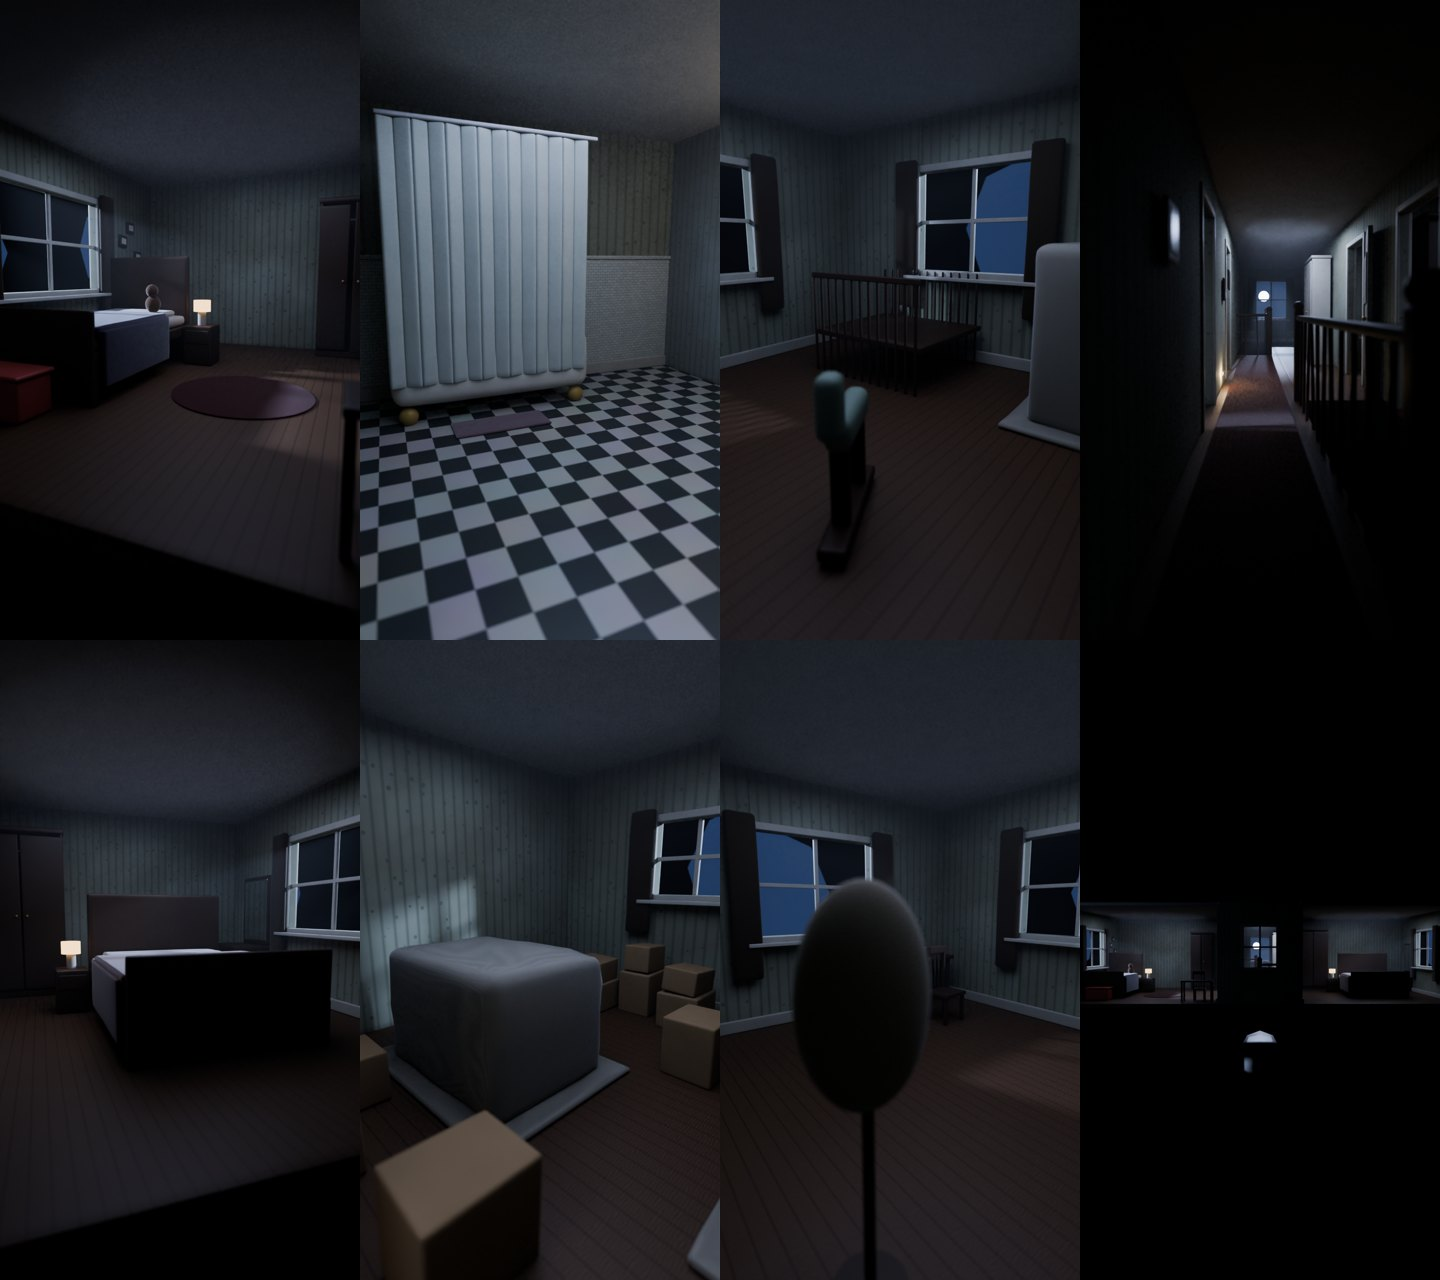
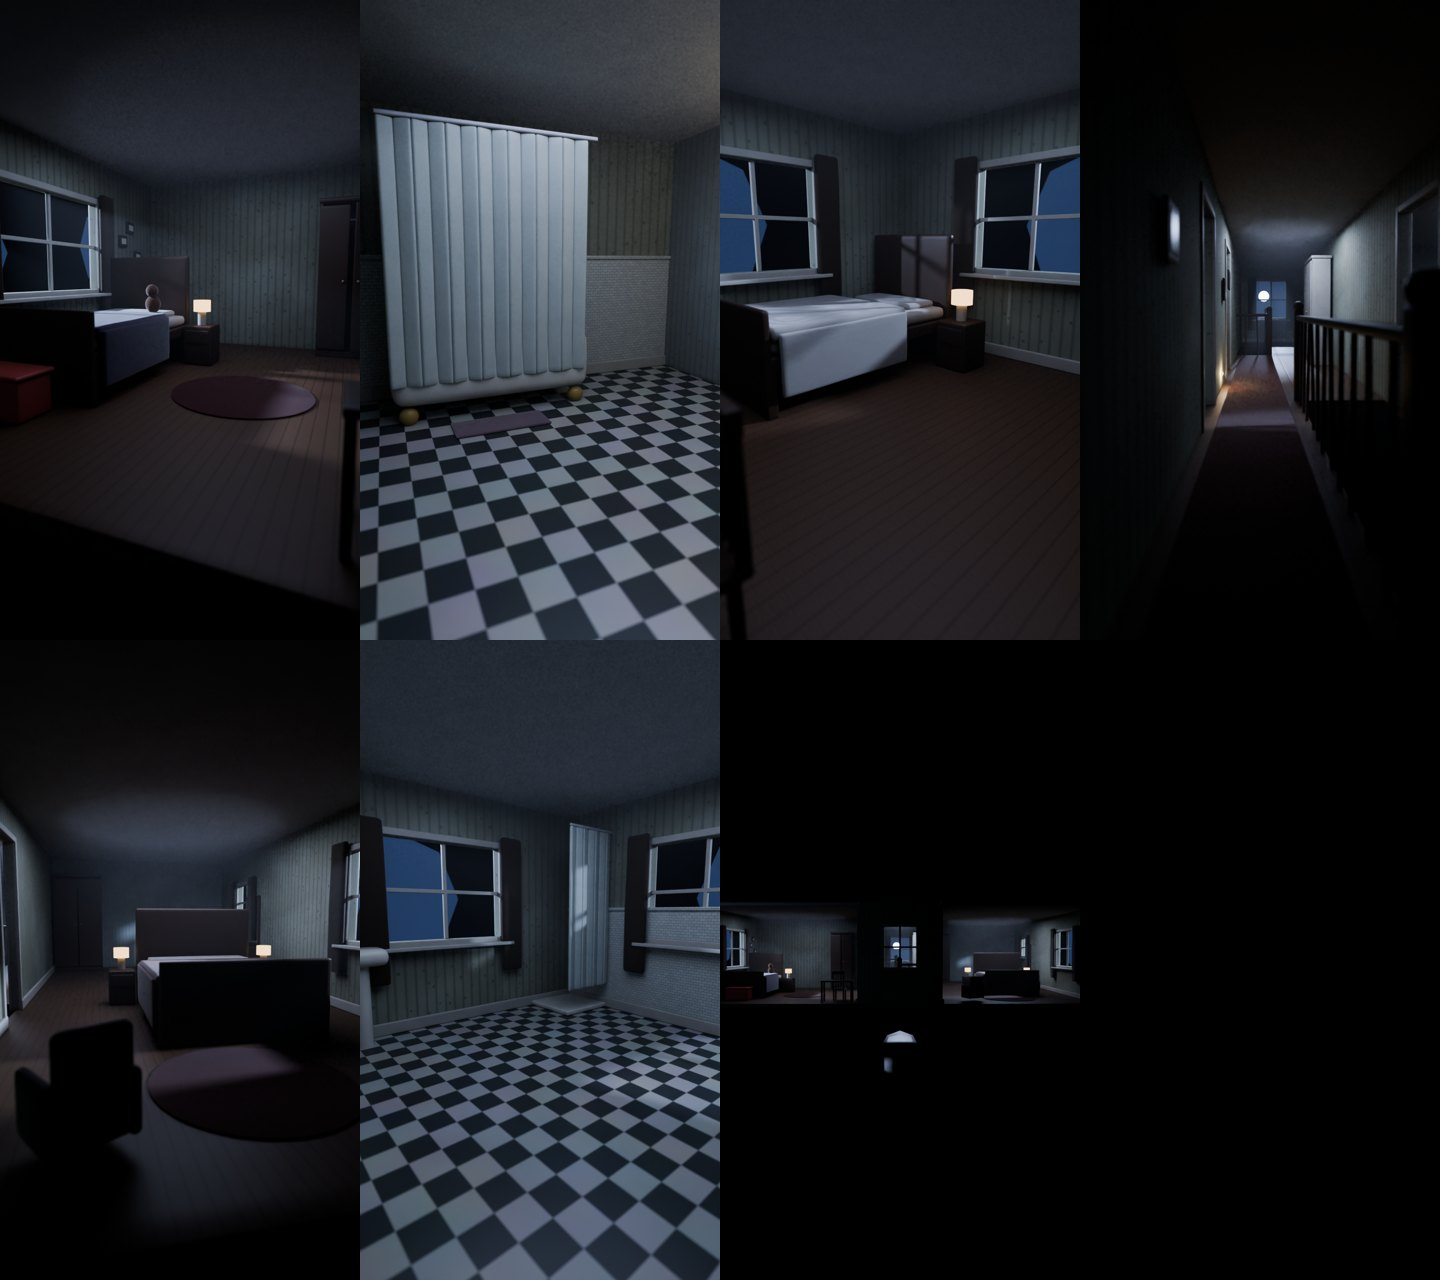
Upstairs is an ordinary family floor: guest bedroom, Mum's bigger bedroom, second bathroom
Removed the nursery, box room and sewing room (and their staged dressing) and the dust-sheeted car in the garage.
Upstairs now: Haru's bedroom, bathroom, guest bedroom (single bed, wardrobe, chest of drawers), Mum's bedroom over
the whole right side (double bed, wardrobe, dressing table, armchair), a second bathroom (shower, sink, toilet), the
landing with both stairwells and the linen cupboard.

Changed region(s): [[0.0, 0.0938, 1.0, 1.0], [0.9375, 0.1562, 1.0, 0.3125]]

diff --git a/YTB/horror/blender/library/sets/home/upstairs.py b/YTB/horror/blender/library/sets/home/upstairs.py
@@ -1,10 +1,9 @@
 """Haru's home, upstairs (see plan.py): built at its own floor level 0 (the house lifts it by plan.UP).
 
-Rooms: Haru's bedroom (front left), the bathroom, the old nursery kept shut (back left, a small narrow door), Mum's
-bedroom (front right), the box room, the sewing room, and the long landing down the middle with both stairwells,
-banisters, a linen cupboard and a window at the far end.
-Hiding places: under Haru's bed and Mum's double bed, inside both wardrobes, the toy chest, the linen cupboard,
-behind the shower curtain, among the boxes and sheets in the box room, behind the dress forms in the sewing room.
+An ordinary family upstairs: Haru's bedroom (front left), the bathroom (middle left), the guest bedroom (back left),
+Mum's bedroom (the whole right side, front and middle), a second bathroom (back right), and the long landing down the
+middle with both stairwells, banisters, a linen cupboard and a window at the far end.
+Places to hide: under the beds, inside the wardrobes and the linen cupboard, behind the shower curtains.
 
     blender -b -P library/sets/home/upstairs.py -- [--out DIR] [--res W H] [--samples N] [--marks a,b] [--blend F]
 """
@@ -19,11 +18,10 @@ import ground as G
 
 D = K.door; WIN = K.window
 MS, BS = PL.MAIN_STAIRS, PL.BACK_STAIRS
-ROOMS = {'haru_bedroom': PL.rect('A', 'front'), 'bathroom': PL.rect('A', 'middle'), 'nursery': PL.rect('A', 'back'),
-         'landing': (0.40, 0.0, 0.60, 1.2), 'mum_bedroom': PL.rect('C', 'front'), 'box_room': PL.rect('C', 'middle'),
-         'sewing_room': PL.rect('C', 'back')}
-FLOORS = {'haru_bedroom': 'floor', 'bathroom': 'tiles_floor', 'nursery': 'floor', 'landing': 'floor', 'mum_bedroom': 'floor',
-          'box_room': 'floor', 'sewing_room': 'floor'}
+ROOMS = {'haru_bedroom': PL.rect('A', 'front'), 'bathroom': PL.rect('A', 'middle'), 'guest_bedroom': PL.rect('A', 'back'),
+         'landing': (0.40, 0.0, 0.60, 1.2), 'mum_bedroom': (0.60, 0.0, 1.0, 0.80), 'bathroom2': PL.rect('C', 'back')}
+FLOORS = {'haru_bedroom': 'floor', 'bathroom': 'tiles_floor', 'guest_bedroom': 'floor', 'landing': 'floor', 'mum_bedroom': 'floor',
+          'bathroom2': 'tiles_floor'}
 WALLS = [
     ((0.0, 0.0), (0.0, 1.2), -1, [WIN(0.14, 0.30, 0.085, 0.19, moon=True), WIN(0.58, 0.66, 0.13, 0.19, curtains=False),
                                   WIN(0.95, 1.07, 0.09, 0.19)], 'wall'),                              # west
@@ -31,10 +29,10 @@ WALLS = [
     ((1.0, 0.0), (1.0, 1.2), 1, [WIN(0.15, 0.30, 0.085, 0.19, moon=True), WIN(0.6, 0.68, 0.11, 0.18), WIN(0.95, 1.07, 0.09, 0.19)], 'wall'),
     ((0.40, 0.0), (0.60, 0.0), 1, [WIN(0.06, 0.14, 0.09, 0.19, curtains=False, sky=False)], 'wild'),            # front of the landing
     ((0.40, 0.0), (0.40, 1.2), 1, [D(0.32, 0.40, angle=20), D(0.55, 0.63, angle=20),
-                                   D(1.135, 1.19, h=0.17, angle=0, keep=True)], 'wall'),              # landing | Haru, bath, nursery
-    ((0.60, 0.0), (0.60, 1.2), -1, [D(0.30, 0.38, angle=-20), D(0.50, 0.58, angle=-20), D(0.90, 0.98, angle=-20)], 'wall'),
+                                   D(1.135, 1.195, angle=20)], 'wall'),                               # landing | Haru, bath, guest
+    ((0.60, 0.0), (0.60, 1.2), -1, [D(0.30, 0.38, angle=-20), D(0.90, 0.98, angle=-20)], 'wall'),   # landing | Mum, bathroom 2
     ((0.0, 0.45), (0.40, 0.45), 1, [], 'wall'), ((0.0, 0.80), (0.40, 0.80), 1, [], 'wall_bath'),
-    ((0.60, 0.45), (1.0, 0.45), 1, [], 'wall'), ((0.60, 0.80), (1.0, 0.80), 1, [], 'wall'),
+    ((0.60, 0.80), (1.0, 0.80), 1, [], 'wall_bath'),
 ]
 
 
@@ -78,19 +76,13 @@ def furnish():
     K.block('toilet_tank', 0.32, 0.35, 0.80 - IN - 0.012, 0.80 - IN, 0.045, 0.078, M['enamel'], bevel=0.003)
     K._to(K.sphere('toilet_bowl', 0.017, (0.335, 0.80 - IN - 0.032, 0.035), scale=(1.0, 1.25, 0.55), mat=M['enamel']))
     K.block('bath_mat', tx1 + 0.004, tx1 + 0.03, ty0 + 0.04, ty0 + 0.11, 0.0, 0.0016, M['bathmat'], bevel=0.0008, coll=True)
-    # --- the old nursery (kept shut): a cot, a rocking horse, a music box, everything else under dust sheets
-    K.block('cot_base', 0.08, 0.2, 1.08, 1.19 - IN, 0.035, 0.04, M['wood'], bevel=0.001)
-    for xx in [0.082 + i * 0.0094 for i in range(13)]:
-        for yy in (1.08, 1.19 - IN - 0.002): K.block('cot_bar', xx - 0.001, xx + 0.001, yy - 0.001, yy + 0.001, 0.0, 0.09, M['wood'], bevel=0.0004)
-    K.block('cot_rail', 0.08, 0.2, 1.078, 1.082, 0.088, 0.093, M['wood'], bevel=0.001)
-    rh = PR.holder('rocking_horse', 0.25, 0.95, 30)
-    PR.part(rh, 'horse_body', -0.006, 0.006, -0.02, 0.02, 0.04, 0.055, 'cabinet', bevel=0.005)
-    PR.part(rh, 'horse_head', -0.005, 0.005, -0.03, -0.018, 0.05, 0.075, 'cabinet', bevel=0.004)
-    for ly in (-0.014, 0.014): PR.part(rh, 'horse_leg', -0.004, 0.004, ly - 0.002, ly + 0.002, 0.008, 0.042, 'wood', bevel=0.001)
-    PR.part(rh, 'horse_rocker', -0.006, 0.006, -0.03, 0.03, 0.002, 0.008, 'wood', bevel=0.002)
-    for (a, b, c, d, hh) in ((0.02, 0.1, 0.84, 0.93, 0.06), (0.28, 0.37, 1.08, 1.17, 0.12)):
-        sh = K.draped('dust_sheet', a, b, c, d, hh, lump=0.005)
-    K._to(K.cylinder('music_box', 0.008, 0.01, (0.34, 0.86, 0.005), mat=M['wood']))
+    # --- guest bedroom: a plain single bed, wardrobe, chest of drawers, chair, bedside lamp (off)
+    PR.bed(0.07, 0.95, 0, duvet='bedsheet', name='guest_bed')
+    PR.bedside(0.145, 1.12, 0, energy=0.0)
+    PR.wardrobe(0.3, 1.2 - IN - 0.046, 0, name='guest_wardrobe')
+    K.block('chest_of_drawers', 0.40 - IN - 0.03, 0.40 - IN, 0.82, 0.9, 0.0, 0.07, M['wood'], bevel=0.002)
+    for zz in (0.012, 0.032, 0.052): K.block('drawer_front', 0.40 - IN - 0.0312, 0.40 - IN - 0.03, 0.825, 0.895, zz, zz + 0.016, M['wood'], bevel=0.001)
+    K.chair(0.25, 0.86, facing=0)
     # --- landing: runner, banisters round both stairwells, linen cupboard, pictures, a little night-light
     K.runner(0.415, 0.485, 0.02, 0.83)
     K.banister(MS[0] - 0.002, MS[1], MS[3]); K.rail((MS[0], MS[1] - 0.002), (MS[2], MS[1] - 0.002))
@@ -99,28 +91,28 @@ def furnish():
     for yy, zz in ((0.5, 0.13), (0.58, 0.15), (0.2, 0.14)): K.picture((0.40 + IN + 0.001, yy, zz), (0.024, 0.03), normal=(1, 0, 0))
     nl = K.point_light('night_light', (0.41, 0.48, 0.02), 0.08, radius=0.003, color=(1.0, 0.75, 0.45)); K._to(nl, 'Lights')
     K._to(K.sphere('night_light_glow', 0.003, (0.405, 0.48, 0.02), mat=M['shade']))
-    # --- Mum's bedroom: double bed (room under it), big wardrobe, dressing table with a mirror, bedside lamp
-    PR.bed(0.83, 0.12, 0, w=0.16, l=0.21, duvet='knit_blanket', name='mum_bed')
-    PR.bedside(0.73, 0.29, 0, energy=0.0)
-    PR.wardrobe(0.68, 0.45 - IN - 0.05, 0, w=0.1, d=0.05, hgt=0.2, name='mum_wardrobe')
-    K.block('dressing_table', 0.97 - 0.03, 1.0 - IN, 0.33, 0.42, 0.0, 0.06, M['wood'], bevel=0.002)
-    K.block('dressing_mirror', 1.0 - IN - 0.004, 1.0 - IN - 0.002, 0.345, 0.405, 0.065, 0.15, M['mirror'], bevel=0.0005)
-    K.block('dressing_mirror_frame', 1.0 - IN - 0.003, 1.0 - IN, 0.34, 0.41, 0.06, 0.155, M['wood'], bevel=0.001)
-    K._to(K.cylinder('stool', 0.012, 0.035, (0.93, 0.375, 0.0175), mat=M['sofa']))
-    # --- box room: stacks of boxes, sheets over old furniture, a standing mirror, a dressmaker's dummy
-    PR.boxes(0.62, 0.72, 0.47, 0.78, seed=11); PR.boxes(0.85, 0.98, 0.47, 0.78, seed=12)
-    K.draped('dust_sheet', 0.74, 0.83, 0.62, 0.74, 0.08, lump=0.005)
-    K.draped('dust_sheet', 0.76, 0.8, 0.48, 0.52, 0.17, lump=0.003)        # tall: a mirror... or someone
-    # --- sewing room: a sewing table and machine, dress forms standing about, rolls of fabric
-    K.block('sewing_table', 0.85, 0.97, 1.2 - IN - 0.05, 1.2 - IN, 0.055, 0.06, M['wood'], bevel=0.0015, coll=True)
-    for xx in (0.855, 0.965): K.block('sewing_table_leg', xx - 0.003, xx + 0.003, 1.2 - IN - 0.045, 1.2 - IN - 0.005, 0, 0.055, M['iron'], bevel=0.001)
-    K.block('sewing_machine', 0.89, 0.93, 1.2 - IN - 0.035, 1.2 - IN - 0.015, 0.06, 0.085, M['iron'], bevel=0.003)
-    for (dx_, dy_) in ((0.7, 0.92), (0.76, 1.05), (0.68, 1.12)):        # dress forms, like people standing in the dark
-        K._to(K.cylinder('dummy_pole', 0.0018, 0.07, (dx_, dy_, 0.035), mat=M['wood']))
-        K._to(K.sphere('dummy_torso', 0.02, (dx_, dy_, 0.095), scale=(1.0, 0.7, 1.6), mat=M['dummy']))
-        K._to(K.cylinder('dummy_base', 0.012, 0.003, (dx_, dy_, 0.0015), mat=M['wood']))
-    for i in range(4): K._to(K.cylinder('fabric_roll', 0.006, 0.09, (0.98, 0.85 + i * 0.016, 0.045), mat=M[['curtain', 'red', 'duvet', 'knit_blanket'][i]]))
-    K.chair(0.91, 1.1, facing=0)
+    # --- Mum's bedroom (the whole right side, front and middle): double bed, wardrobe, dressing table, armchair
+    PR.bed(0.83, 0.2, 0, w=0.16, l=0.21, duvet='knit_blanket', name='mum_bed')
+    PR.bedside(0.73, 0.38, 0, energy=0.0); PR.bedside(0.93, 0.38, 0, energy=0.0)
+    PR.wardrobe(0.66, 0.80 - IN - 0.05, 0, w=0.1, d=0.05, hgt=0.2, name='mum_wardrobe')
+    K.block('dressing_table', 1.0 - IN - 0.03, 1.0 - IN, 0.55, 0.64, 0.0, 0.06, M['wood'], bevel=0.002)
+    K.block('dressing_mirror', 1.0 - IN - 0.004, 1.0 - IN - 0.002, 0.565, 0.625, 0.065, 0.15, M['mirror'], bevel=0.0005)
+    K.block('dressing_mirror_frame', 1.0 - IN - 0.003, 1.0 - IN, 0.56, 0.63, 0.06, 0.155, M['wood'], bevel=0.001)
+    K._to(K.cylinder('stool', 0.012, 0.035, (0.93, 0.595, 0.0175), mat=M['sofa']))
+    PR.armchair(0.68, 0.08, -150)
+    r = K.cylinder('rug', 0.07, 0.0012, (0.8, 0.12, 0.0006), mat=M['runner'], verts=64); K._to(r); K.HP.colliders().objects.link(r)
+    # --- second bathroom (back right): a shower with a curtain, sink and mirror, toilet
+    K.block('shower_tray', 1.0 - IN - 0.07, 1.0 - IN, 1.2 - IN - 0.07, 1.2 - IN, 0.0, 0.006, M['enamel'], bevel=0.002, coll=True)
+    K.block('shower_rail', 1.0 - IN - 0.07, 1.0 - IN, 1.2 - IN - 0.072, 1.2 - IN - 0.069, 0.21, 0.213, M['chrome'], bevel=0.001)
+    for i in range(7):
+        xx = 1.0 - IN - 0.066 + i * 0.0095
+        c = K.block('shower_curtain', xx - 0.005, xx + 0.005, 1.2 - IN - 0.073, 1.2 - IN - 0.069, 0.03, 0.21, M['shower_curtain'], bevel=0.002)
+        c.rotation_euler = (0, 0, math.radians(14 * (-1) ** i))
+    K.block('basin2', 0.7, 0.745, 1.2 - IN - 0.035, 1.2 - IN, 0.072, 0.088, M['enamel'], bevel=0.007)
+    K._to(K.cylinder('sink_pedestal2', 0.008, 0.074, (0.7225, 1.2 - IN - 0.018, 0.037), mat=M['enamel']))
+    K.block('mirror2', 0.705, 0.74, 1.2 - IN - 0.002, 1.2 - IN - 0.001, 0.11, 0.155, M['mirror'], bevel=0.0003)
+    K.block('toilet_tank2', 0.60 + IN, 0.60 + IN + 0.012, 1.0, 1.035, 0.045, 0.078, M['enamel'], bevel=0.003)
+    K._to(K.sphere('toilet_bowl2', 0.017, (0.60 + IN + 0.03, 1.0175, 0.035), scale=(1.25, 1.0, 0.55), mat=M['enamel']))
 
 
 def build(house=False):
@@ -137,6 +129,7 @@ def build(house=False):
         w = K.wall(a, b, inward=inward, openings=ops, mat='wall_bath' if kind == 'wall_bath' else 'wall')
         if kind == 'wild': w['wild'] = True
     K.cladding((0.0, 0.45), (0.0, 0.80), -1, height=0.12)
+    K.cladding((1.0, 0.80), (1.0, 1.2), 1, height=0.12)
     furnish()
     K.mood('night', moon_from=(-0.5, 0.22, 0.36), moon_to=(0.15, 0.22, 0.0), moon_energy=18)
     K.mood('night', moon_from=(0.5, 1.9, 0.42), moon_to=(0.5, 0.9, 0.0), moon_energy=16)
@@ -150,11 +143,10 @@ def build(house=False):
     K.mark('dollhouse_upstairs', (0.5, -1.05, 0.13), (0.5, 0.4, 0.1), lens=24)
     K.mark('haru_bedroom', (0.3, -0.12, 0.1), (0.12, 0.3, 0.05), lens=22)
     K.mark('bathroom', (0.36, 0.5, 0.12), (0.06, 0.62, 0.07), lens=22)
-    K.mark('nursery', (0.36, 0.84, 0.12), (0.15, 1.12, 0.05), lens=22)
+    K.mark('guest_bedroom', (0.36, 0.84, 0.12), (0.12, 1.08, 0.05), lens=22)
     K.mark('landing', (0.45, 0.02, 0.1), (0.46, 0.9, 0.08), lens=20)
-    K.mark('mum_bedroom', (0.7, -0.12, 0.1), (0.85, 0.3, 0.05), lens=22)
-    K.mark('box_room', (0.65, 0.5, 0.12), (0.85, 0.7, 0.06), lens=20)
-    K.mark('sewing_room', (0.65, 0.84, 0.12), (0.85, 1.1, 0.07), lens=20)
+    K.mark('mum_bedroom', (0.7, -0.12, 0.11), (0.82, 0.45, 0.05), lens=22)
+    K.mark('bathroom2', (0.65, 0.84, 0.12), (0.88, 1.12, 0.07), lens=20)
 
 
 if __name__ == '__main__':
@@ -168,6 +160,6 @@ if __name__ == '__main__':
     build()
     if opt('blend'): bpy.ops.wm.save_as_mainfile(filepath=os.path.abspath(opt('blend')))
     os.makedirs(OUT, exist_ok=True)
-    for m in (opt('marks') or 'haru_bedroom,bathroom,nursery,landing,mum_bedroom,box_room,sewing_room,dollhouse_upstairs').split(','):
+    for m in (opt('marks') or 'haru_bedroom,bathroom,guest_bedroom,landing,mum_bedroom,bathroom2,dollhouse_upstairs').split(','):
         K.shoot(m, OUT, fstop=float(opt('fstop', 1, '8')))
     print('DONE upstairs', OUT)

diff --git a/YTB/horror/blender/library/sets/home/ground.py b/YTB/horror/blender/library/sets/home/ground.py
@@ -1,7 +1,7 @@
 """Haru's home, ground floor (see plan.py): walls for the whole floor from one list (so every door lines up and no wall
 is doubled), then each room's furniture. Hiding places: behind the floor-length living-room curtains, behind the sofa
 (it stands off the wall), under the dining table's long cloth, in the under-stairs cupboard, in the pantry, inside
-the kitchen base cupboards, under the dust sheet over the car in the garage, in the chest freezer, behind the
+the kitchen base cupboards, in the chest freezer, behind the
 hanging sheets in the laundry.
 
     blender -b -P library/sets/home/ground.py -- [--out DIR] [--res W H] [--samples N] [--marks a,b] [--blend F]
@@ -133,9 +133,7 @@ def furnish():
     PR.armchair(0.9, 0.12, -120)
     K._to(K.sphere('globe', 0.012, (0.93, 0.36, 0.075), mat=M['book3']))
     K._to(K.cylinder('globe_stand', 0.0015, 0.06, (0.93, 0.36, 0.03), mat=M['brass']))
-    # --- garage (C middle): an old car under a dust sheet, a workbench, a chest freezer, shelves of boxes
-    car = K.draped('dust_sheet', 0.72, 0.93, 0.5, 0.74, 0.07, lump=0.006)
-    car.scale = (1, 1, 1)
+    # --- garage (C middle): a workbench, a chest freezer, boxes along the wall (room for Mum's car)
     K.block('workbench', 1.0 - IN - 0.03, 1.0 - IN, 0.47, 0.6, 0.06, 0.065, M['wood'], bevel=0.0015)
     for yy in (0.475, 0.595): K.block('workbench_leg', 1.0 - IN - 0.028, 1.0 - IN - 0.024, yy - 0.002, yy + 0.002, 0, 0.06, M['wood'], bevel=0.0005)
     K.block('chest_freezer', 0.62, 0.68, 0.74, 0.79 - IN, 0.0, 0.05, M['washer'], bevel=0.003)

diff --git a/YTB/horror/blender/library/sets/home/plan.py b/YTB/horror/blender/library/sets/home/plan.py
@@ -15,9 +15,9 @@ GROUND
     B back    back stairs up (x 0.40..0.48, y 0.84..1.14) from the kitchen, pantry (x 0.48..0.60, y 0.80..1.20)
     C front  study                C middle garage                C back  laundry (basement stairs down, garden door)
 UPSTAIRS
-    A front  Haru's bedroom       A middle bathroom             A back  spare room (the old nursery, kept shut)
+    A front  Haru's bedroom       A middle bathroom             A back  guest bedroom
     B         the landing, full depth (x 0.40..0.60): main stairwell, back stairwell, linen cupboard
-    C front  Mum's bedroom        C middle box room (junk)       C back  sewing room
+    C front + middle  Mum's bedroom                              C back  second bathroom
 ATTIC      the whole footprint under a pitched roof (ridge along y at x 0.50), crawl-spaces behind small doors
 BASEMENT   boiler room, storage, a low crawlspace
 
